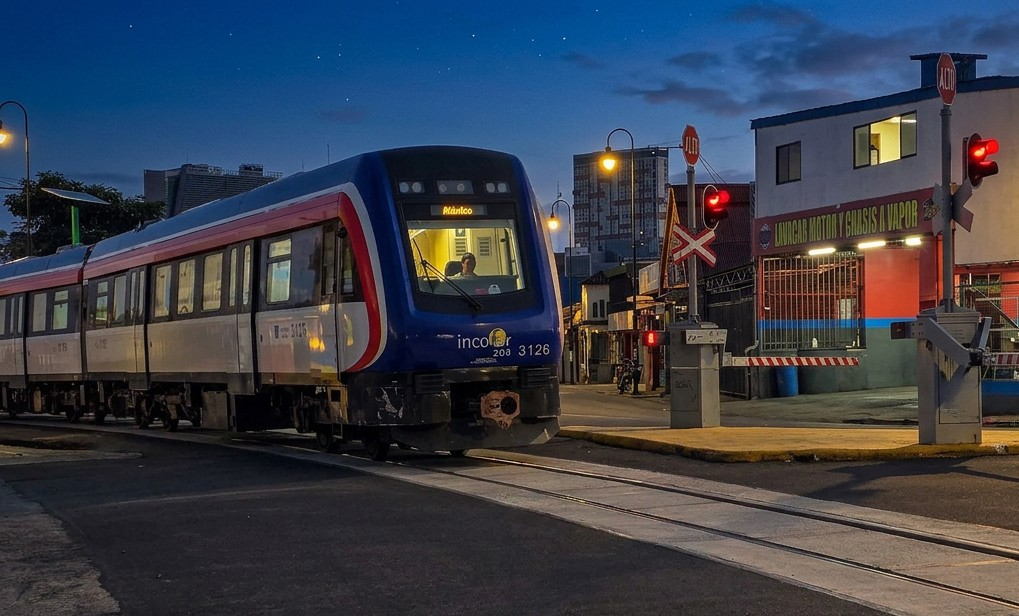
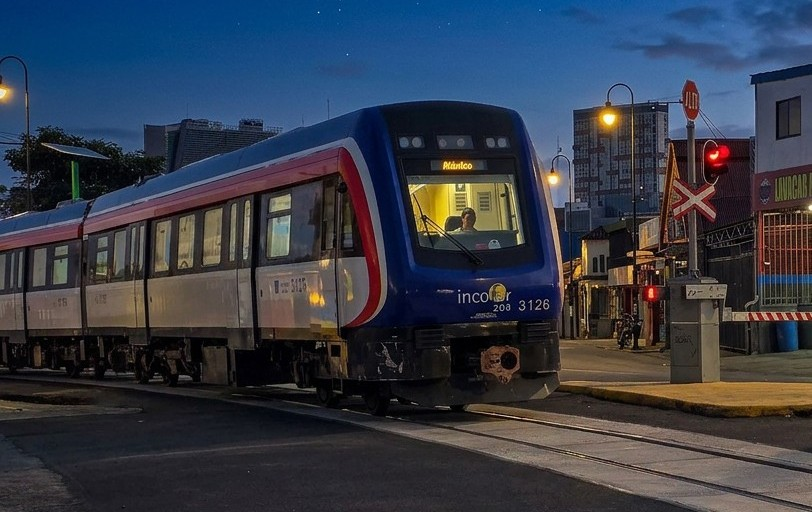
Adjusted images

diff --git a/client/pages/ArticlePage.tsx b/client/pages/ArticlePage.tsx
@@ -41,15 +41,11 @@ export default function ArticlePage() {
           </p>
         </header>
 
-        {/* Editorial image; the train crop matches the Figma frame. */}
+        {/* Article imagery can differ from the listing preview. */}
         <div className="relative mx-5 aspect-[1753/940] overflow-hidden bg-zinc-200 md:mx-10 xl:mx-[4.35%]">
           <img
             alt={article.imageAlt}
-            className={
-              article.heroImage
-                ? "absolute top-[-19.19%] left-[-17.06%] h-[121.79%] w-[117.08%] max-w-none"
-                : "size-full object-cover"
-            }
+            className="size-full object-cover"
             fetchPriority="high"
             src={publiexAsset(article.heroImage ?? article.image)}
           />

diff --git a/client/pages/ActualidadPage.tsx b/client/pages/ActualidadPage.tsx
@@ -70,9 +70,9 @@ export default function ActualidadPage() {
         <div className="mx-auto grid w-full max-w-393.5 gap-6 lg:grid-cols-[minmax(0,1fr)_minmax(0,0.76fr)] lg:items-center xl:gap-12">
           <div className="relative aspect-835/788 overflow-hidden bg-zinc-300 lg:aspect-835/788">
             <img
-              alt="Tren en movimiento al atardecer"
+              alt={articles[0].imageAlt}
               className="size-full object-cover"
-              src={publiexAsset("actualidad-raw-01.jpeg")}
+              src={publiexAsset(articles[0].image)}
             />
             <p className="absolute bottom-4 left-4 font-raleway text-xs font-bold uppercase text-white">
               Historia destacada

diff --git a/client/content/articles.ts b/client/content/articles.ts
@@ -24,8 +24,8 @@ export const articles: Article[] = [
       "Publicidad en movimiento: cómo acompañar a la audiencia durante su recorrido",
     description:
       "Una mirada a las posibilidades de integrar presencia exterior, experiencias interiores y frecuencia urbana.",
-    image: "article-publicidad-en-movimiento.png",
-    heroImage: "article-publicidad-en-movimiento.png",
+    image: "actualidad-innovacion-tren.jpg",
+    heroImage: "actualidad-innovacion-tren2.png",
     imageAlt: "Tren con publicidad exterior al atardecer",
     intro:
       "La movilidad permite que una marca conecte con la audiencia en distintos momentos, dentro y fuera del trayecto.",
